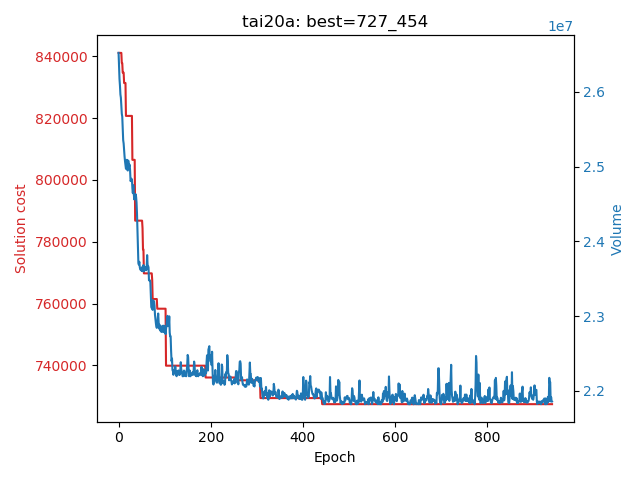
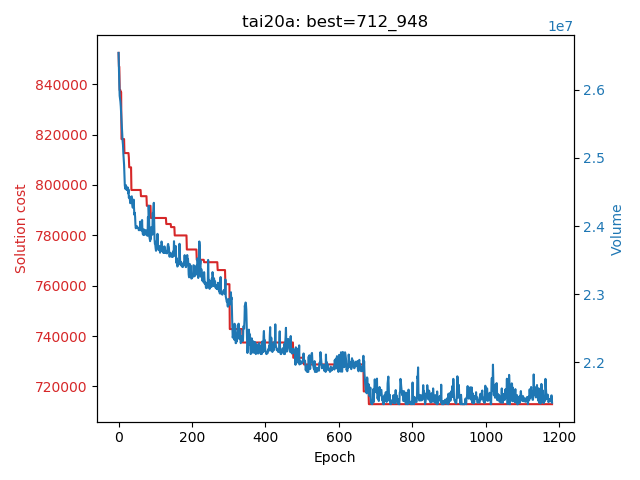
Clean up code and update results

diff --git a/3_GA_for_QAP/GA.py b/3_GA_for_QAP/GA.py
@@ -171,28 +171,6 @@ class GeneticAlgorithm:
             sol[i], sol[j] = sol[j], sol[i]
             return sol
 
-        def inversion_mutation(solution: Solution) -> Solution:
-            if np.random.sample() >= self.mutation_prob:
-                return solution
-            else:
-                sol = copy.deepcopy(solution)
-                i, j = np.random.choice(len(sol.assignment), 2, replace=False)
-                i, j = min(i, j), max(i, j)
-                sol[i:j] = list(reversed(sol[i:j]))
-                sol.update_cost()
-                return sol
-
-        def scrumble_mutation(solution: Solution) -> Solution:
-            if np.random.sample() >= self.mutation_prob:
-                return solution
-            else:
-                sol = copy.deepcopy(solution)
-                i, j = np.random.choice(len(sol.assignment), 2, replace=False)
-                i, j = min(i, j), max(i, j)
-                sol[i:j] = list(np.random.permutation(sol[i:j]))
-                sol.update_cost()
-                return sol
-
         return np.vectorize(mutation)(population)
 
     def _select_survivors(self, population: np.ndarray) -> np.ndarray:
@@ -232,7 +210,8 @@ class Utils:
 
     @staticmethod
     def evaluate_solution(str_encoding: str, instance: Instance) -> int:
-        sol = Solution(np.array(map(lambda x: int(x) - 1, str_encoding.split())),
+        sol = Solution(np.array(list(map(lambda x: int(x) - 1,
+                                         str_encoding.split()))),
                        instance)
         return sol.cost
 
@@ -283,18 +262,6 @@ class Utils:
 
         best_cost = min(costs)
         print(f"Best solution after tests: {best_cost:_}\n\n")
-
-        fig = plt.figure()
-        plt.title(f"{instance.name:7}\n"
-                  f"best={best_cost:_} "
-                  f"avg={int(np.average(costs)):_} "
-                  f"worst={max(costs):_}")
-        plt.xticks([])
-        plt.ylabel('Solution cost')
-        plt.plot(range(n_tests), sorted(costs))
-        plt.tight_layout()
-        plt.savefig(f"./images/{instance.name}_{n_tests}_tests.png")
-        plt.close(fig)
 
         return best_solution
 
